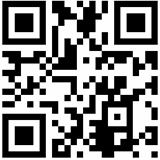
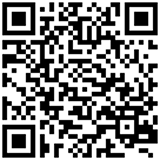
二维码更新

diff --git a/shiwan321com/htdocs/index.html b/shiwan321com/htdocs/index.html
@@ -148,21 +148,17 @@
     </p>	
 	
 	
-
     <p style="margin: 5px 0;text-align: justify;font-family: Calibri;font-size: medium;text-indent: 0;white-space: normal;padding: 0;line-height: 21px">
-        <span style="font-family: 楷体; color: #2A2A2A; letter-spacing: 0px; font-size: 17px;">5、</span><strong><span style="font-family: 楷体; color: #0000FF; letter-spacing: 0px; font-size: 17px;">掉钱眼儿</span></strong><span style="font-family: 楷体; color: #2A2A2A; letter-spacing: 0px; font-size: 17px;">【推荐指数&nbsp;</span><span style="font-family: 楷体; color: #FF00FF; letter-spacing: 0px; font-size: 17px;">★★★★★</span><span style="font-family: 楷体; color: #2A2A2A; letter-spacing: 0px; font-size: 17px;">】</span>
+        <span style="font-family: 楷体; color: #2A2A2A; letter-spacing: 0px; font-size: 17px;">5、</span><strong><span style="font-family: 楷体; color: #0000FF; letter-spacing: 0px; font-size: 17px;">钱脉</span></strong><span style="font-family: 楷体; color: #2A2A2A; letter-spacing: 0px; font-size: 17px;">【推荐指数&nbsp;</span><span style="font-family: 楷体; color: #FF00FF; letter-spacing: 0px; font-size: 17px;">★★★★★</span><span style="font-family: 楷体; color: #2A2A2A; letter-spacing: 0px; font-size: 17px;">】</span><br/>
     </p>
     <p style="margin: 5px 0;text-align: justify;font-family: Calibri;font-size: medium;text-indent: 0;white-space: normal;padding: 0;line-height: 21px">
-        <span style="font-family: 楷体; color: #2A2A2A; letter-spacing: 0px; font-size: 17px;">相比其他软件，最大的优势在于<span style="letter-spacing: 0px; color: #FF0000;">不需首次</span>，只要你抢到了任务，就算以前下过这个软件，还是可以继续做。<span style="letter-spacing: 0px; color: #FF0000;">首次成功送2元</span>现金红包。试玩一款应用<span style="letter-spacing: 0px; color: #FF0000;">单价1元</span>左右，任务一般晚上9点更新。<span style="letter-spacing: 0px; color: #FF0000;">满16元</span>可提现。</span>
+        <span style="font-family: 楷体; color: #2A2A2A; letter-spacing: 0px; font-size: 17px;"><span style="font-family: 楷体; letter-spacing: 0px; font-size: 17px; color: #FF0000;">任务多多</span>，要赚钱，找钱脉，钱脉APP是一款能把人脉变成钱脉的APP，试玩一个应用<span style="font-family: 楷体; letter-spacing: 0px; font-size: 17px; color: #FF0000;">单价1元</span>，<span style="font-family: 楷体; letter-spacing: 0px; font-size: 17px; color: #FF0000;">5元</span>就能提现。</span>
     </p>
     <p style="margin: 5px 0;text-align: justify;font-family: Calibri;font-size: medium;text-indent: 0;white-space: normal;padding: 0;line-height: 21px">
-        <a href="http://tg.topaso.vip?u=7931981&e=396" rel="nofollow" target="_blank"><img width="160" height="160" src="ios/images/diaoqianyaner/a4.png"/><a/>
+        <a href="http://m.qianmaiap.com/?u=234991" rel="nofollow" target="_blank"><img width="160" height="160" src="ios/images/qianmai/a4.png"/><a/>
     </p>
     <p style="margin: 5px 0;text-align: justify;font-family: Calibri;font-size: medium;text-indent: 0;white-space: normal;padding: 0;line-height: 21px">
         <span style="font-family: 微软雅黑; letter-spacing: 0px; font-size: 14px;"><br/></span>
-    </p>
-    <p style="margin: 5px 0;text-align: justify;font-family: Calibri;font-size: medium;text-indent: 0;white-space: normal;padding: 0;line-height: 21px">
-        <span style="font-family: 微软雅黑; letter-spacing: 0px; font-size: 14px;"></span>
     </p>	
 	
 	
@@ -178,6 +174,8 @@
     <p style="margin: 5px 0;text-align: justify;font-family: Calibri;font-size: medium;text-indent: 0;white-space: normal;padding: 0;line-height: 21px">
         <span style="font-family: 微软雅黑; letter-spacing: 0px; font-size: 14px;"><br/></span>
     </p>
+	
+	
     <p style="margin: 5px 0;text-align: justify;font-family: Calibri;font-size: medium;text-indent: 0;white-space: normal;padding: 0;line-height: 21px">
         <span style="font-family: 楷体; color: #2A2A2A; letter-spacing: 0px; font-size: 17px;">7、</span><strong><span style="font-family: 楷体; color: #0000FF; letter-spacing: 0px; font-size: 17px;">秒赚</span></strong><span style="font-family: 楷体; color: #2A2A2A; letter-spacing: 0px; font-size: 17px;">【推荐指数&nbsp;</span><span style="font-family: 楷体; color: #FF00FF; letter-spacing: 0px; font-size: 17px;">★★★★★</span><span style="font-family: 楷体; color: #2A2A2A; letter-spacing: 0px; font-size: 17px;">】</span>
     </p>
@@ -191,35 +189,9 @@
         <span style="font-family: 微软雅黑; letter-spacing: 0px; font-size: 14px;"><br/></span>
     </p>
 
+	
     <p style="margin: 5px 0;text-align: justify;font-family: Calibri;font-size: medium;text-indent: 0;white-space: normal;padding: 0;line-height: 21px">
-        <span style="font-family: 楷体; color: #2A2A2A; letter-spacing: 0px; font-size: 17px;">8、</span><strong><span style="font-family: 楷体; color: #0000FF; letter-spacing: 0px; font-size: 17px;">豆豆趣玩</span></strong><span style="font-family: 楷体; color: #2A2A2A; letter-spacing: 0px; font-size: 17px;">【推荐指数&nbsp;</span><span style="font-family: 楷体; color: #FF00FF; letter-spacing: 0px; font-size: 17px;">★★★★★</span><span style="font-family: 楷体; color: #2A2A2A; letter-spacing: 0px; font-size: 17px;">】</span><br/>
-    </p>
-    <p style="margin: 5px 0;text-align: justify;font-family: Calibri;font-size: medium;text-indent: 0;white-space: normal;padding: 0;line-height: 21px">
-        <span style="font-family: 楷体; color: #2A2A2A; letter-spacing: 0px; font-size: 17px;"><span style="letter-spacing: 0px; color: #FF0000;">任务多多，注册送5元</span>，<span style="letter-spacing: 0px; color: #FF0000;">安装后送1元</span>，<span style="letter-spacing: 0px; color: #FF0000;">没错，安装就有6元</span>，<span style="letter-spacing: 0px; color: #FF0000;">单价1元</span>左右，<span style="letter-spacing: 0px; color: #FF0000;">满10元</span>即可微信提现。</span>
-    </p>
-    <p style="margin: 5px 0;text-align: justify;font-family: Calibri;font-size: medium;text-indent: 0;white-space: normal;padding: 0;line-height: 21px">
-        <a href="http://s.hao3536.com/share.html?id=10867496&sf=ios&sfrom=ios" rel="nofollow" target="_blank"><img width="160" height="160" src="ios/images/doudouquwan/a4.png"/><a/>
-    </p>
-    <p style="margin: 5px 0;text-align: justify;font-family: Calibri;font-size: medium;text-indent: 0;white-space: normal;padding: 0;line-height: 21px">
-        <span style="font-family: 微软雅黑; letter-spacing: 0px; font-size: 14px;"><br/></span>
-    </p>
-    <p style="margin: 5px 0;text-align: justify;font-family: Calibri;font-size: medium;text-indent: 0;white-space: normal;padding: 0;line-height: 21px">
-        <span style="font-family: 楷体; color: #2A2A2A; letter-spacing: 0px; font-size: 17px;">9、</span><strong><span style="font-family: 楷体; color: #0000FF; letter-spacing: 0px; font-size: 17px;">钱脉</span></strong><span style="font-family: 楷体; color: #2A2A2A; letter-spacing: 0px; font-size: 17px;">【推荐指数&nbsp;</span><span style="font-family: 楷体; color: #FF00FF; letter-spacing: 0px; font-size: 17px;">★★★★★</span><span style="font-family: 楷体; color: #2A2A2A; letter-spacing: 0px; font-size: 17px;">】</span><br/>
-    </p>
-    <p style="margin: 5px 0;text-align: justify;font-family: Calibri;font-size: medium;text-indent: 0;white-space: normal;padding: 0;line-height: 21px">
-        <span style="font-family: 楷体; color: #2A2A2A; letter-spacing: 0px; font-size: 17px;"><span style="font-family: 楷体; letter-spacing: 0px; font-size: 17px; color: #FF0000;">任务多多</span>，要赚钱，找钱脉，钱脉APP是一款能把人脉变成钱脉的APP，试玩一个应用<span style="font-family: 楷体; letter-spacing: 0px; font-size: 17px; color: #FF0000;">单价1元</span>，<span style="font-family: 楷体; letter-spacing: 0px; font-size: 17px; color: #FF0000;">5元</span>就能提现。</span>
-    </p>
-    <p style="margin: 5px 0;text-align: justify;font-family: Calibri;font-size: medium;text-indent: 0;white-space: normal;padding: 0;line-height: 21px">
-        <a href="http://m.qianmaiap.com/?u=234991" rel="nofollow" target="_blank"><img width="160" height="160" src="ios/images/qianmai/a4.png"/><a/>
-    </p>
-    <p style="margin: 5px 0;text-align: justify;font-family: Calibri;font-size: medium;text-indent: 0;white-space: normal;padding: 0;line-height: 21px">
-        <span style="font-family: 微软雅黑; letter-spacing: 0px; font-size: 14px;"><br/></span>
-    </p>
-    <p style="margin: 5px 0;text-align: justify;font-family: Calibri;font-size: medium;text-indent: 0;white-space: normal;padding: 0;line-height: 21px">
-        <span style="font-family: 微软雅黑; letter-spacing: 0px; font-size: 14px;"></span>
-    </p>
-    <p style="margin: 5px 0;text-align: justify;font-family: Calibri;font-size: medium;text-indent: 0;white-space: normal;padding: 0;line-height: 21px">
-        <span style="font-family: 楷体; color: #2A2A2A; letter-spacing: 0px; font-size: 17px;">10、</span><strong><span style="font-family: 楷体;color: #0000FF;letter-spacing: 0;font-size: 17px">天天钱庄</span></strong><span style="font-family: 楷体; color: #2A2A2A; letter-spacing: 0px; font-size: 17px;">【推荐指数&nbsp;</span><span style="font-family: 楷体; color: #FF00FF; letter-spacing: 0px; font-size: 17px;">★★★★★</span><span style="font-family: 楷体; color: #2A2A2A; letter-spacing: 0px; font-size: 17px;">】</span><br/>
+        <span style="font-family: 楷体; color: #2A2A2A; letter-spacing: 0px; font-size: 17px;">8、</span><strong><span style="font-family: 楷体;color: #0000FF;letter-spacing: 0;font-size: 17px">天天钱庄</span></strong><span style="font-family: 楷体; color: #2A2A2A; letter-spacing: 0px; font-size: 17px;">【推荐指数&nbsp;</span><span style="font-family: 楷体; color: #FF00FF; letter-spacing: 0px; font-size: 17px;">★★★★★</span><span style="font-family: 楷体; color: #2A2A2A; letter-spacing: 0px; font-size: 17px;">】</span><br/>
     </p>
     <p style="margin: 5px 0;text-align: justify;font-family: Calibri;font-size: medium;text-indent: 0;white-space: normal;padding: 0;line-height: 21px">
         <span style="color: #FF0000; letter-spacing: 0px; font-size: 17px; font-family: 楷体;">任务很多的平台之一，推荐做</span><span style="letter-spacing: 0px; font-size: 17px; font-family: 楷体;">，</span><span style="font-family: 楷体;color: #2A2A2A;letter-spacing: 0;font-size: 17px"><span style="font-family:楷体">单价</span>0.8-2元，</span><span style="font-family: 楷体;color: #FF0000;letter-spacing: 0;font-size: 17px"><span style="font-family:楷体">满</span>5元就可以提现</span><span style="color: #2A2A2A; letter-spacing: 0px; font-size: 17px; font-family: 楷体;">，按要求的话赚的很快哦</span>
@@ -233,7 +205,7 @@
 	
 	
     <p style="margin: 5px 0;text-align: justify;font-family: Calibri;font-size: medium;text-indent: 0;white-space: normal;padding: 0;line-height: 21px">
-        <span style="font-family: 楷体; color: #2A2A2A; letter-spacing: 0px; font-size: 17px;">11、</span><strong><span style="font-family: 楷体; color: #0000FF; letter-spacing: 0px; font-size: 17px;">聚宝朋</span></strong><span style="font-family: 楷体; color: #2A2A2A; letter-spacing: 0px; font-size: 17px;">【推荐指数&nbsp;</span><span style="font-family: 楷体; color: #FF00FF; letter-spacing: 0px; font-size: 17px;">★★★★★</span><span style="font-family: 楷体; color: #2A2A2A; letter-spacing: 0px; font-size: 17px;">】</span><br/>
+        <span style="font-family: 楷体; color: #2A2A2A; letter-spacing: 0px; font-size: 17px;">9、</span><strong><span style="font-family: 楷体; color: #0000FF; letter-spacing: 0px; font-size: 17px;">聚宝朋</span></strong><span style="font-family: 楷体; color: #2A2A2A; letter-spacing: 0px; font-size: 17px;">【推荐指数&nbsp;</span><span style="font-family: 楷体; color: #FF00FF; letter-spacing: 0px; font-size: 17px;">★★★★★</span><span style="font-family: 楷体; color: #2A2A2A; letter-spacing: 0px; font-size: 17px;">】</span><br/>
     </p>
     <p style="margin: 5px 0;text-align: justify;font-family: Calibri;font-size: medium;text-indent: 0;white-space: normal;padding: 0;line-height: 21px">
         <span style="font-family: 楷体; font-size: 17px; letter-spacing: 0px; color: #FF0000;">大量任务，注册送一元，单价1元左右，10元支付宝提现<span style="letter-spacing: 0px; color: #000000;">。</span></span>
@@ -244,6 +216,36 @@
     <p style="margin: 5px 0;text-align: justify;font-family: Calibri;font-size: medium;text-indent: 0;white-space: normal;padding: 0;line-height: 21px">
         <span style="font-family: 微软雅黑; letter-spacing: 0px; font-size: 14px;"><br/></span>
     </p>
+	
+	
+    <p style="margin: 5px 0;text-align: justify;font-family: Calibri;font-size: medium;text-indent: 0;white-space: normal;padding: 0;line-height: 21px">
+        <span style="font-family: 楷体; color: #2A2A2A; letter-spacing: 0px; font-size: 17px;">10、</span><strong><span style="font-family: 楷体; color: #0000FF; letter-spacing: 0px; font-size: 17px;">掉钱眼儿</span></strong><span style="font-family: 楷体; color: #2A2A2A; letter-spacing: 0px; font-size: 17px;">【推荐指数&nbsp;</span><span style="font-family: 楷体; color: #FF00FF; letter-spacing: 0px; font-size: 17px;">★★★★★</span><span style="font-family: 楷体; color: #2A2A2A; letter-spacing: 0px; font-size: 17px;">】</span>
+    </p>
+    <p style="margin: 5px 0;text-align: justify;font-family: Calibri;font-size: medium;text-indent: 0;white-space: normal;padding: 0;line-height: 21px">
+        <span style="font-family: 楷体; color: #2A2A2A; letter-spacing: 0px; font-size: 17px;">相比其他软件，最大的优势在于<span style="letter-spacing: 0px; color: #FF0000;">不需首次</span>，只要你抢到了任务，就算以前下过这个软件，还是可以继续做。<span style="letter-spacing: 0px; color: #FF0000;">首次成功送2元</span>现金红包。试玩一款应用<span style="letter-spacing: 0px; color: #FF0000;">单价1元</span>左右，任务一般晚上9点更新。<span style="letter-spacing: 0px; color: #FF0000;">满16元</span>可提现。</span>
+    </p>
+    <p style="margin: 5px 0;text-align: justify;font-family: Calibri;font-size: medium;text-indent: 0;white-space: normal;padding: 0;line-height: 21px">
+        <a href="http://tg.topaso.vip?u=7931981&e=396" rel="nofollow" target="_blank"><img width="160" height="160" src="ios/images/diaoqianyaner/a4.png"/><a/>
+    </p>
+    <p style="margin: 5px 0;text-align: justify;font-family: Calibri;font-size: medium;text-indent: 0;white-space: normal;padding: 0;line-height: 21px">
+        <span style="font-family: 微软雅黑; letter-spacing: 0px; font-size: 14px;"><br/></span>
+    </p>	
+	
+	
+    <p style="margin: 5px 0;text-align: justify;font-family: Calibri;font-size: medium;text-indent: 0;white-space: normal;padding: 0;line-height: 21px">
+        <span style="font-family: 楷体; color: #2A2A2A; letter-spacing: 0px; font-size: 17px;">11、</span><strong><span style="font-family: 楷体; color: #0000FF; letter-spacing: 0px; font-size: 17px;">豆豆趣玩</span></strong><span style="font-family: 楷体; color: #2A2A2A; letter-spacing: 0px; font-size: 17px;">【推荐指数&nbsp;</span><span style="font-family: 楷体; color: #FF00FF; letter-spacing: 0px; font-size: 17px;">★★★★★</span><span style="font-family: 楷体; color: #2A2A2A; letter-spacing: 0px; font-size: 17px;">】</span><br/>
+    </p>
+    <p style="margin: 5px 0;text-align: justify;font-family: Calibri;font-size: medium;text-indent: 0;white-space: normal;padding: 0;line-height: 21px">
+        <span style="font-family: 楷体; color: #2A2A2A; letter-spacing: 0px; font-size: 17px;"><span style="letter-spacing: 0px; color: #FF0000;">任务多多，注册送5元</span>，<span style="letter-spacing: 0px; color: #FF0000;">安装后送1元</span>，<span style="letter-spacing: 0px; color: #FF0000;">没错，安装就有6元</span>，<span style="letter-spacing: 0px; color: #FF0000;">单价1元</span>左右，<span style="letter-spacing: 0px; color: #FF0000;">满10元</span>即可微信提现。</span>
+    </p>
+    <p style="margin: 5px 0;text-align: justify;font-family: Calibri;font-size: medium;text-indent: 0;white-space: normal;padding: 0;line-height: 21px">
+        <a href="http://s.hao3536.com/share.html?id=10867496&sf=ios&sfrom=ios" rel="nofollow" target="_blank"><img width="160" height="160" src="ios/images/doudouquwan/a4.png"/><a/>
+    </p>
+    <p style="margin: 5px 0;text-align: justify;font-family: Calibri;font-size: medium;text-indent: 0;white-space: normal;padding: 0;line-height: 21px">
+        <span style="font-family: 微软雅黑; letter-spacing: 0px; font-size: 14px;"><br/></span>
+    </p>	
+	
+	
     <p style="margin: 5px 0;text-align: justify;font-family: Calibri;font-size: medium;text-indent: 0;white-space: normal;padding: 0;line-height: 21px">
         <span style="font-family: 楷体; color: #2A2A2A; letter-spacing: 0px; font-size: 17px;">12、</span><strong><span style="font-family: 楷体; color: #0000FF; letter-spacing: 0px; font-size: 17px;">蜜蜂试玩</span></strong><span style="font-family: 楷体; color: #2A2A2A; letter-spacing: 0px; font-size: 17px;">【推荐指数&nbsp;</span><span style="font-family: 楷体; color: #FF00FF; letter-spacing: 0px; font-size: 17px;">★★★★★</span><span style="font-family: 楷体; color: #2A2A2A; letter-spacing: 0px; font-size: 17px;">】</span><br/>
     </p>
@@ -258,6 +260,136 @@
     <p style="margin: 5px 0;text-align: justify;font-family: Calibri;font-size: medium;text-indent: 0;white-space: normal;padding: 0;line-height: 21px">
         <span style="font-family: 微软雅黑; letter-spacing: 0px; font-size: 14px;"><br/></span>
     </p>	
+	
+	
+    <p style="margin: 5px 0;text-align: justify;font-family: Calibri;font-size: medium;text-indent: 0;white-space: normal;padding: 0;line-height: 21px">
+        <span style="font-family: 楷体; color: #2A2A2A; letter-spacing: 0px; font-size: 17px;">13、</span><strong><span style="font-family: 楷体; color: #0000FF; letter-spacing: 0px; font-size: 17px;">蝉试客</span></strong><span style="font-family: 楷体; color: #2A2A2A; letter-spacing: 0px; font-size: 17px;">【推荐指数&nbsp;</span><span style="font-family: 楷体; color: #FF00FF; letter-spacing: 0px; font-size: 17px;">★★★★★</span><span style="font-family: 楷体; color: #2A2A2A; letter-spacing: 0px; font-size: 17px;">】</span><br/>
+    </p>
+    <p style="margin: 5px 0;text-align: justify;font-family: Calibri;font-size: medium;text-indent: 0;white-space: normal;padding: 0;line-height: 21px">
+        <span style="font-family: 楷体; font-size: 17px; letter-spacing: 0px; color: #FF0000;">苹果试玩软件，注册送一元，单价一元起，满10元可微信提现，和钱咖差不多的软件。</span>
+    </p>
+    <p style="margin: 5px 0;text-align: justify;font-family: Calibri;font-size: medium;text-indent: 0;white-space: normal;padding: 0;line-height: 21px">
+        <a href="https://chanshike.cn/?uid=124698" rel="nofollow" target="_blank">
+		<img width="160" height="160" src="ios/images/chanshike/a4.png"/><a/>
+		<a/>
+    </p>
+    <p style="margin: 5px 0;text-align: justify;font-family: Calibri;font-size: medium;text-indent: 0;white-space: normal;padding: 0;line-height: 21px">
+        <span style="font-family: 微软雅黑; letter-spacing: 0px; font-size: 14px;"><br/></span>
+    </p>	
+	
+	
+    <p style="margin: 5px 0;text-align: justify;font-family: Calibri;font-size: medium;text-indent: 0;white-space: normal;padding: 0;line-height: 21px">
+        <span style="font-family: 楷体; color: #2A2A2A; letter-spacing: 0px; font-size: 17px;">14、</span><strong><span style="font-family: 楷体; color: #0000FF; letter-spacing: 0px; font-size: 17px;">鼠宝</span></strong><span style="font-family: 楷体; color: #2A2A2A; letter-spacing: 0px; font-size: 17px;">【推荐指数&nbsp;</span><span style="font-family: 楷体; color: #FF00FF; letter-spacing: 0px; font-size: 17px;">★★★★★</span><span style="font-family: 楷体; color: #2A2A2A; letter-spacing: 0px; font-size: 17px;">】</span><br/>
+    </p>
+    <p style="margin: 5px 0;text-align: justify;font-family: Calibri;font-size: medium;text-indent: 0;white-space: normal;padding: 0;line-height: 21px">
+        <span style="font-family: 楷体; font-size: 17px; letter-spacing: 0px; color: #FF0000;">任务很多的平台之一，推荐做，单价0.8-2元，10元提现，可以做好评任务和试玩任务，每天任务稳定。</span>
+    </p>
+    <p style="margin: 5px 0;text-align: justify;font-family: Calibri;font-size: medium;text-indent: 0;white-space: normal;padding: 0;line-height: 21px">
+        <a href="http://www.mapzqq-com.com/test/jump/535914" rel="nofollow" target="_blank">
+		<img width="160" height="160" src="ios/images/shubao/a4.png"/><a/>
+		<a/>
+    </p>
+    <p style="margin: 5px 0;text-align: justify;font-family: Calibri;font-size: medium;text-indent: 0;white-space: normal;padding: 0;line-height: 21px">
+        <span style="font-family: 微软雅黑; letter-spacing: 0px; font-size: 14px;"><br/></span>
+    </p>	
+	
+	
+    <p style="margin: 5px 0;text-align: justify;font-family: Calibri;font-size: medium;text-indent: 0;white-space: normal;padding: 0;line-height: 21px">
+        <span style="font-family: 楷体; color: #2A2A2A; letter-spacing: 0px; font-size: 17px;">15、</span><strong><span style="font-family: 楷体; color: #0000FF; letter-spacing: 0px; font-size: 17px;">武林外赚 </span></strong><span style="font-family: 楷体; color: #2A2A2A; letter-spacing: 0px; font-size: 17px;">【推荐指数&nbsp;</span><span style="font-family: 楷体; color: #FF00FF; letter-spacing: 0px; font-size: 17px;">★★★★★</span><span style="font-family: 楷体; color: #2A2A2A; letter-spacing: 0px; font-size: 17px;">】</span><br/>
+    </p>
+    <p style="margin: 5px 0;text-align: justify;font-family: Calibri;font-size: medium;text-indent: 0;white-space: normal;padding: 0;line-height: 21px">
+        <span style="font-family: 楷体; font-size: 17px; letter-spacing: 0px; color: #FF0000;">提现快，任务多，注册送1元，单价0.8元起，更有高额任务等你来。必装！</span>
+    </p>
+    <p style="margin: 5px 0;text-align: justify;font-family: Calibri;font-size: medium;text-indent: 0;white-space: normal;padding: 0;line-height: 21px">
+        <a href="http://www.wulinzhuan.com/invite/5388940" rel="nofollow" target="_blank">
+		<img width="160" height="160" src="ios/images/wulinwaizhuan/a4.png"/><a/>
+		<a/>
+    </p>
+    <p style="margin: 5px 0;text-align: justify;font-family: Calibri;font-size: medium;text-indent: 0;white-space: normal;padding: 0;line-height: 21px">
+        <span style="font-family: 微软雅黑; letter-spacing: 0px; font-size: 14px;"><br/></span>
+    </p>	
+	
+	
+    <p style="margin: 5px 0;text-align: justify;font-family: Calibri;font-size: medium;text-indent: 0;white-space: normal;padding: 0;line-height: 21px">
+        <span style="font-family: 楷体; color: #2A2A2A; letter-spacing: 0px; font-size: 17px;">16、</span><strong><span style="font-family: 楷体; color: #0000FF; letter-spacing: 0px; font-size: 17px;">试用宝</span></strong><span style="font-family: 楷体; color: #2A2A2A; letter-spacing: 0px; font-size: 17px;">【推荐指数&nbsp;</span><span style="font-family: 楷体; color: #FF00FF; letter-spacing: 0px; font-size: 17px;">★★★★★</span><span style="font-family: 楷体; color: #2A2A2A; letter-spacing: 0px; font-size: 17px;">】</span><br/>
+    </p>
+    <p style="margin: 5px 0;text-align: justify;font-family: Calibri;font-size: medium;text-indent: 0;white-space: normal;padding: 0;line-height: 21px">
+        <span style="font-family: 楷体; font-size: 17px; letter-spacing: 0px; color: #FF0000;">新用户送1元，10元就能提现，任务单价0.8-1元起。</span>
+    </p>
+    <p style="margin: 5px 0;text-align: justify;font-family: Calibri;font-size: medium;text-indent: 0;white-space: normal;padding: 0;line-height: 21px">
+        <a href="http://www.shiyongapp.com/guide/14299490" rel="nofollow" target="_blank">
+		<img width="160" height="160" src="ios/images/shiyongbao/a4.png"/><a/>
+		<a/>
+    </p>
+    <p style="margin: 5px 0;text-align: justify;font-family: Calibri;font-size: medium;text-indent: 0;white-space: normal;padding: 0;line-height: 21px">
+        <span style="font-family: 微软雅黑; letter-spacing: 0px; font-size: 14px;"><br/></span>
+    </p>	
+	
+	
+    <p style="margin: 5px 0;text-align: justify;font-family: Calibri;font-size: medium;text-indent: 0;white-space: normal;padding: 0;line-height: 21px">
+        <span style="font-family: 楷体; color: #2A2A2A; letter-spacing: 0px; font-size: 17px;">17、</span><strong><span style="font-family: 楷体; color: #0000FF; letter-spacing: 0px; font-size: 17px;">内涵红包</span></strong><span style="font-family: 楷体; color: #2A2A2A; letter-spacing: 0px; font-size: 17px;">【推荐指数&nbsp;</span><span style="font-family: 楷体; color: #FF00FF; letter-spacing: 0px; font-size: 17px;">★★★★★</span><span style="font-family: 楷体; color: #2A2A2A; letter-spacing: 0px; font-size: 17px;">】</span><br/>
+    </p>
+    <p style="margin: 5px 0;text-align: justify;font-family: Calibri;font-size: medium;text-indent: 0;white-space: normal;padding: 0;line-height: 21px">
+        <span style="font-family: 楷体; font-size: 17px; letter-spacing: 0px; color: #FF0000;">任务多，每个任务1-3元，微信20元起提现，24小时到账。</span>
+    </p>
+    <p style="margin: 5px 0;text-align: justify;font-family: Calibri;font-size: medium;text-indent: 0;white-space: normal;padding: 0;line-height: 21px">
+        <a href="https://invitation.xiaohanclub.top:440/Friend/FenBefor?invid=1313554&channid=2" rel="nofollow" target="_blank">
+		<img width="160" height="160" src="ios/images/neihanhongbao/a4.png"/><a/>
+		<a/>
+    </p>
+    <p style="margin: 5px 0;text-align: justify;font-family: Calibri;font-size: medium;text-indent: 0;white-space: normal;padding: 0;line-height: 21px">
+        <span style="font-family: 微软雅黑; letter-spacing: 0px; font-size: 14px;"><br/></span>
+    </p>	
+	
+	
+    <p style="margin: 5px 0;text-align: justify;font-family: Calibri;font-size: medium;text-indent: 0;white-space: normal;padding: 0;line-height: 21px">
+        <span style="font-family: 楷体; color: #2A2A2A; letter-spacing: 0px; font-size: 17px;">18、</span><strong><span style="font-family: 楷体; color: #0000FF; letter-spacing: 0px; font-size: 17px;">今日赚</span></strong><span style="font-family: 楷体; color: #2A2A2A; letter-spacing: 0px; font-size: 17px;">【推荐指数&nbsp;</span><span style="font-family: 楷体; color: #FF00FF; letter-spacing: 0px; font-size: 17px;">★★★★★</span><span style="font-family: 楷体; color: #2A2A2A; letter-spacing: 0px; font-size: 17px;">】</span><br/>
+    </p>
+    <p style="margin: 5px 0;text-align: justify;font-family: Calibri;font-size: medium;text-indent: 0;white-space: normal;padding: 0;line-height: 21px">
+        <span style="font-family: 楷体; font-size: 17px; letter-spacing: 0px; color: #FF0000;">任务多，在微信上打开，一个任务的价格是0.8-1元左右，满10元提现，每天下午4点更新任务。</span>
+    </p>
+    <p style="margin: 5px 0;text-align: justify;font-family: Calibri;font-size: medium;text-indent: 0;white-space: normal;padding: 0;line-height: 21px">
+        <a href="http://jrz.jinrizhuanqian.cn?uid=dutcov&sta=0&source=appStore" rel="nofollow" target="_blank">
+		<img width="160" height="160" src="ios/images/jinrizhuan/a4.png"/><a/>
+		<a/>
+    </p>
+    <p style="margin: 5px 0;text-align: justify;font-family: Calibri;font-size: medium;text-indent: 0;white-space: normal;padding: 0;line-height: 21px">
+        <span style="font-family: 微软雅黑; letter-spacing: 0px; font-size: 14px;"><br/></span>
+    </p>	
+	
+	
+    <p style="margin: 5px 0;text-align: justify;font-family: Calibri;font-size: medium;text-indent: 0;white-space: normal;padding: 0;line-height: 21px">
+        <span style="font-family: 楷体; color: #2A2A2A; letter-spacing: 0px; font-size: 17px;">19、</span><strong><span style="font-family: 楷体; color: #0000FF; letter-spacing: 0px; font-size: 17px;">火箭试玩</span></strong><span style="font-family: 楷体; color: #2A2A2A; letter-spacing: 0px; font-size: 17px;">【推荐指数&nbsp;</span><span style="font-family: 楷体; color: #FF00FF; letter-spacing: 0px; font-size: 17px;">★★★★★</span><span style="font-family: 楷体; color: #2A2A2A; letter-spacing: 0px; font-size: 17px;">】</span><br/>
+    </p>
+    <p style="margin: 5px 0;text-align: justify;font-family: Calibri;font-size: medium;text-indent: 0;white-space: normal;padding: 0;line-height: 21px">
+        <span style="font-family: 楷体; font-size: 17px; letter-spacing: 0px; color: #FF0000;">给力新平台，试玩应用就送现金红包，试玩单价0.8元，5元即可提现。</span>
+    </p>
+    <p style="margin: 5px 0;text-align: justify;font-family: Calibri;font-size: medium;text-indent: 0;white-space: normal;padding: 0;line-height: 21px">
+        <a href="http://huojianshiwan.com/#/link/UzZrUDIyMitBVFJWb0hEYzc4TDE0dz09" rel="nofollow" target="_blank">
+		<img width="160" height="160" src="ios/images/huojianshiwan/a4.png"/><a/>
+		<a/>
+    </p>
+    <p style="margin: 5px 0;text-align: justify;font-family: Calibri;font-size: medium;text-indent: 0;white-space: normal;padding: 0;line-height: 21px">
+        <span style="font-family: 微软雅黑; letter-spacing: 0px; font-size: 14px;"><br/></span>
+    </p>	
+	
+	
+    <p style="margin: 5px 0;text-align: justify;font-family: Calibri;font-size: medium;text-indent: 0;white-space: normal;padding: 0;line-height: 21px">
+        <span style="font-family: 楷体; color: #2A2A2A; letter-spacing: 0px; font-size: 17px;">20、</span><strong><span style="font-family: 楷体; color: #0000FF; letter-spacing: 0px; font-size: 17px;">头号试玩</span></strong><span style="font-family: 楷体; color: #2A2A2A; letter-spacing: 0px; font-size: 17px;">【推荐指数&nbsp;</span><span style="font-family: 楷体; color: #FF00FF; letter-spacing: 0px; font-size: 17px;">★★★★★</span><span style="font-family: 楷体; color: #2A2A2A; letter-spacing: 0px; font-size: 17px;">】</span><br/>
+    </p>
+    <p style="margin: 5px 0;text-align: justify;font-family: Calibri;font-size: medium;text-indent: 0;white-space: normal;padding: 0;line-height: 21px">
+        <span style="font-family: 楷体; font-size: 17px; letter-spacing: 0px; color: #FF0000;">给力新平台，注册即送1元，苹果试玩单价0.8元以上，满10元可申请支付宝提现，1-2个工作日到账</span>
+    </p>
+    <p style="margin: 5px 0;text-align: justify;font-family: Calibri;font-size: medium;text-indent: 0;white-space: normal;padding: 0;line-height: 21px">
+        <a href="http://wx.th233.cn/?id=18439181" rel="nofollow" target="_blank">
+		<img width="160" height="160" src="ios/images/touhaoshiwan/a4.png"/><a/>
+		<a/>
+    </p>
+    <p style="margin: 5px 0;text-align: justify;font-family: Calibri;font-size: medium;text-indent: 0;white-space: normal;padding: 0;line-height: 21px">
+        <span style="font-family: 微软雅黑; letter-spacing: 0px; font-size: 14px;"><br/></span>
+    </p>	
+	
+	
 	</div>
 	
     <div align="left" id="bottom">
